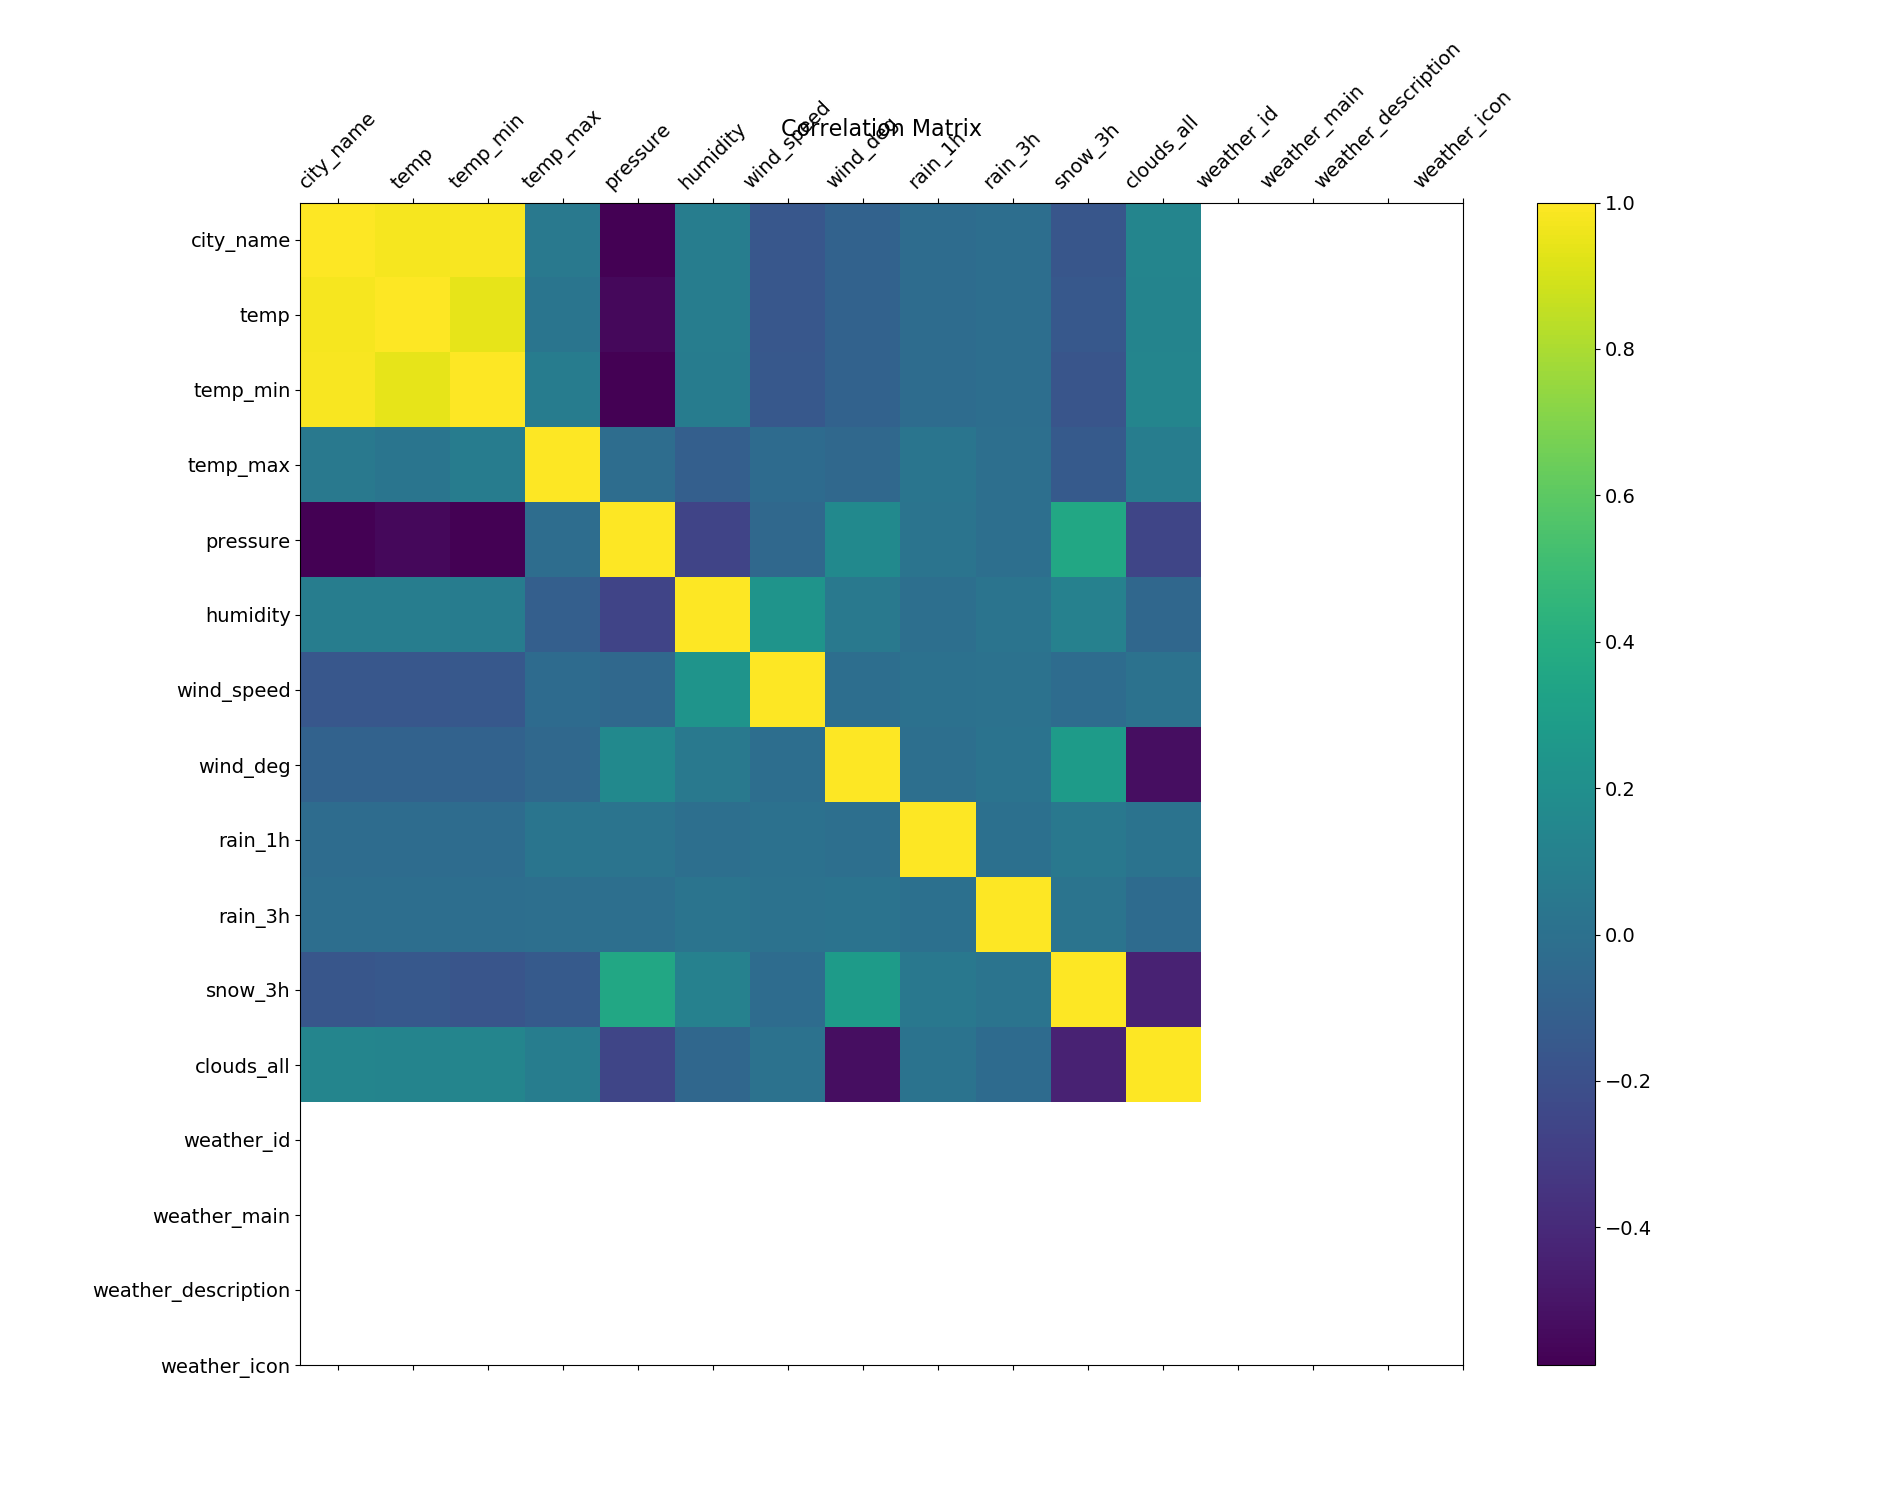
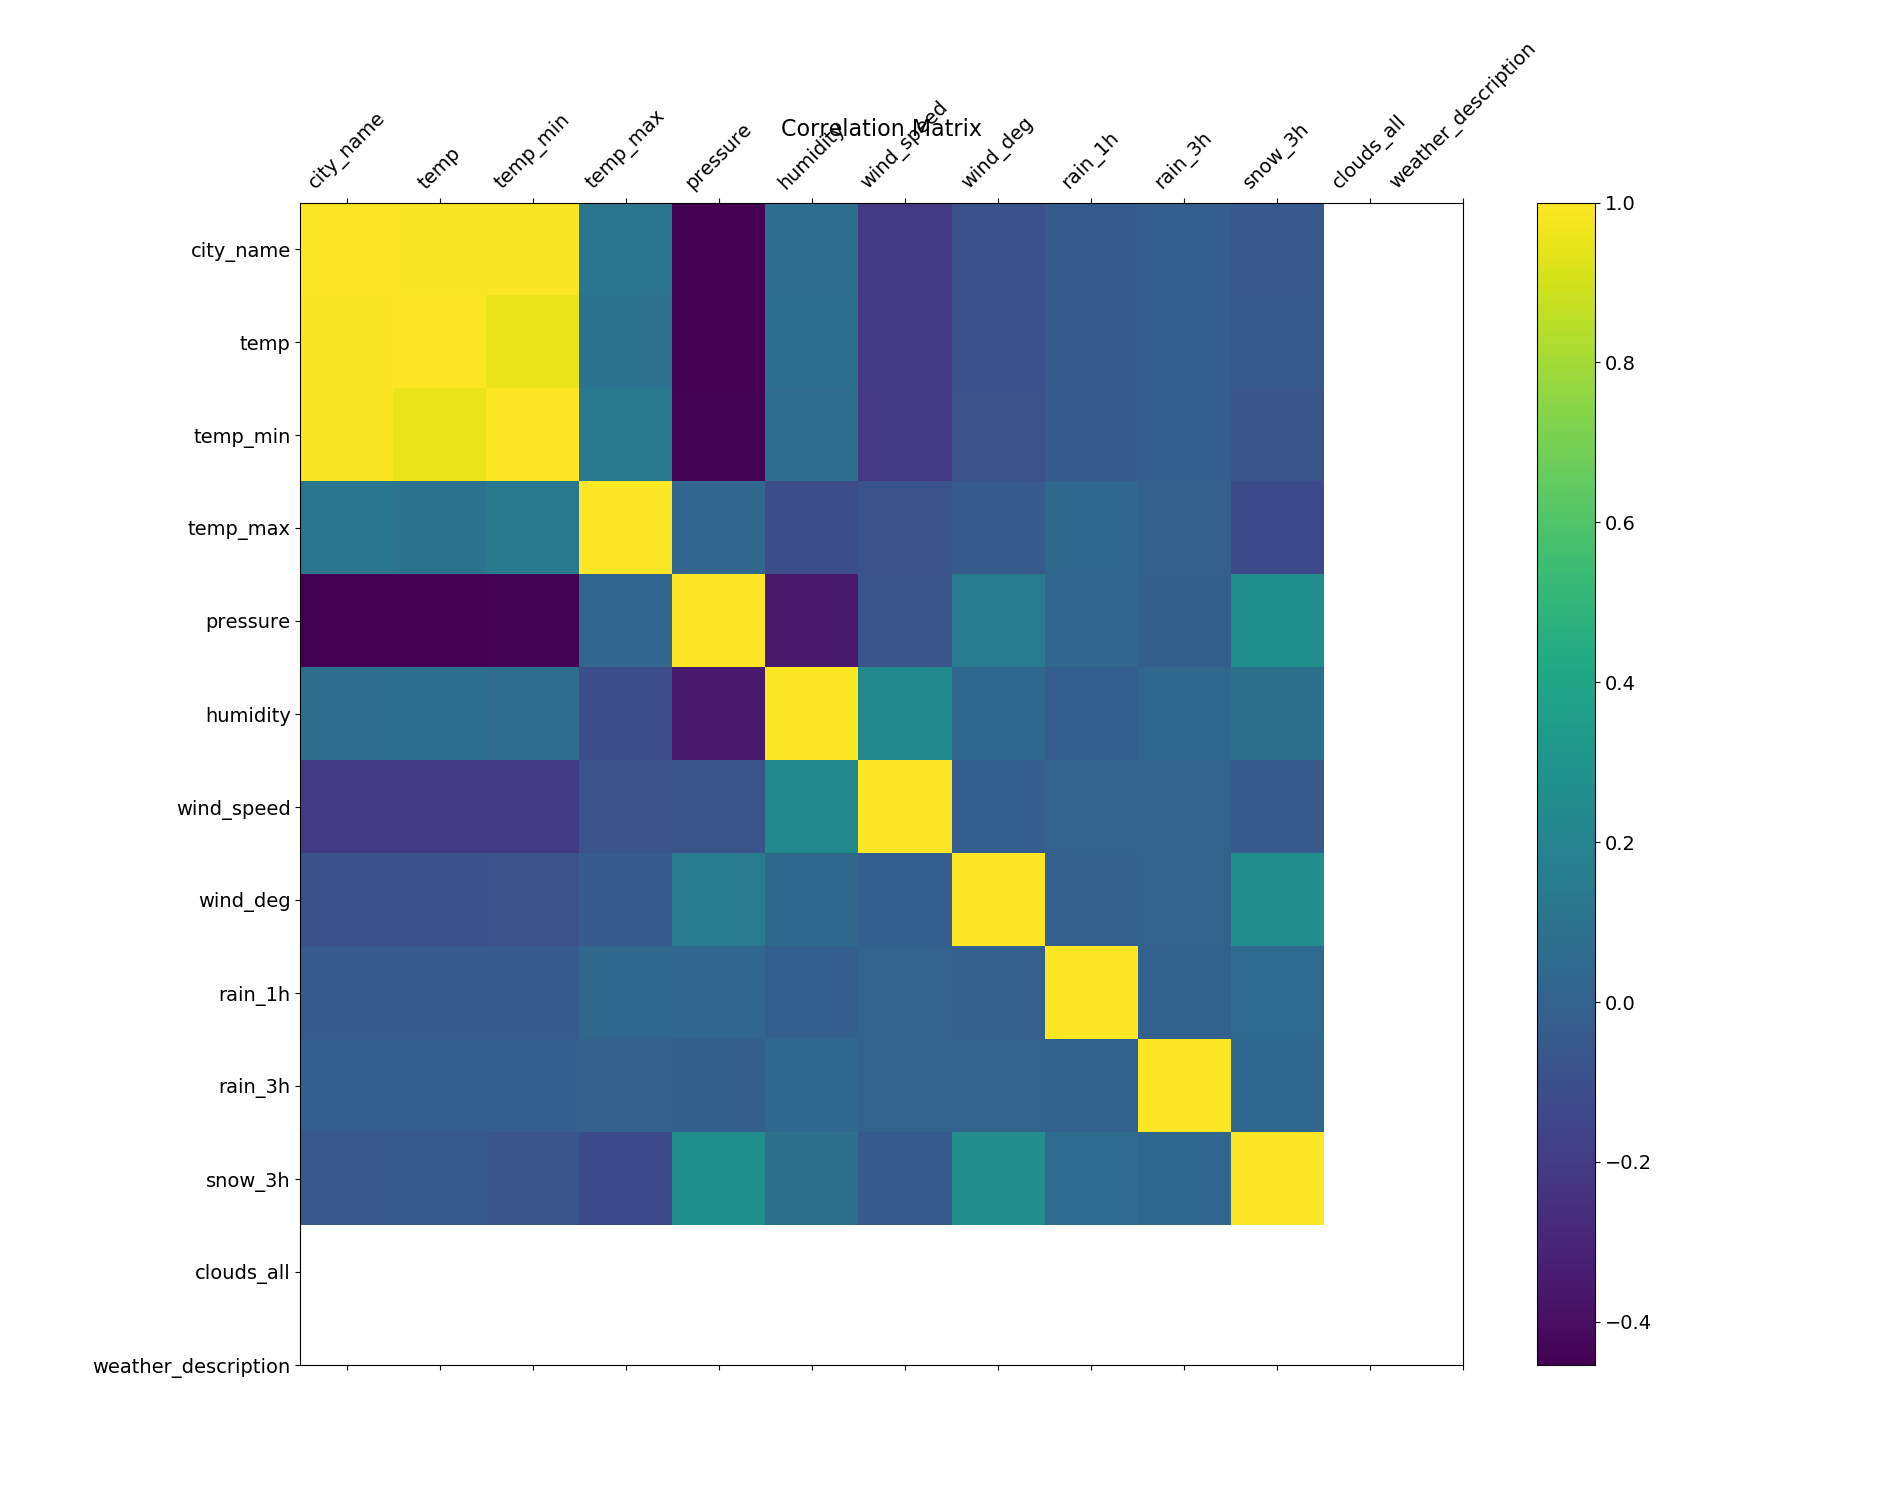
nearly ready for PCA

diff --git a/src/main_script.py b/src/main_script.py
@@ -39,12 +39,19 @@ if __name__ == '__main__':
     weather.reset_index()
 
 
+
+
+
     # Drop columns
     weather_drop_cols = ['weather_icon', 'weather_main', 'weather_id']
-    energy_drop_cols = []
+    energy_drop_cols = ['generation fossil coal-derived gas','generation fossil oil shale', 
+                        'generation fossil peat', 'generation geothermal',
+                        'generation marine', 'generation hydro pumped storage aggregated']
 
     for i in weather_drop_cols:
-        weather.df.drop(i)
+        weather.df.drop(i, axis=1, inplace=True)
+    for i in energy_drop_cols:
+        energy.df.drop(i, axis=1, inplace=True)
 
     # Demonstrate over-featurization of weather.df
     # for i in weather.df.weather_description.unique():
@@ -53,14 +60,33 @@ if __name__ == '__main__':
 
 
 
-    plot_corr_matrix(energy.df)
-    plt.savefig('images/energy_corr.png')
-    # plt.show()
-    plt.close()
-    plot_corr_matrix(weather.df)
-    plt.savefig('images/weather_corr.png')
-    # plt.show()
-    plt.close()
+    # plot_corr_matrix(energy.df)
+    # plt.savefig('images/energy_corr.png')
+    # # plt.show()
+    # plt.close()
+    # plot_corr_matrix(weather.df)
+    # plt.savefig('images/weather_corr.png')
+    # # plt.show()
+    # plt.close()
+
+
+    city_df_list = weather.featurize_cities(['Valencia', 'Madrid', "Bilbao", 'Barcelona', 'Sevilla'])
+
+    valencia = Pipeline.from_df(city_df_list[0])
+    madrid = Pipeline.from_df(city_df_list[1])
+    bilbao = Pipeline.from_df(city_df_list[2])
+    barcelona = Pipeline.from_df(city_df_list[3])
+    sevilla = Pipeline.from_df(city_df_list[4])
+
+    valencia.merge_dfs(madrid)
+
+
+   
+
+
+
+
+
     
     # Transformations
     print('\nPerforming transformations')
@@ -81,14 +107,14 @@ if __name__ == '__main__':
     # test.set_index(['dt_iso'])
     # weather.df.set_index('city_name', append=True)
 
-for feat in ["Madrid", "Valencia"]:
-    for col in weather.df.columns:
-        weather.df[f"{feat}_{col}"] = weather.df[col][weather.df['city_name'] == "Madrid"]
+# for feat in ["Madrid", "Valencia"]:
+#     for col in weather.df.columns:
+#         weather.df[f"{feat}_{col}"] = weather.df[col][weather.df['city_name'] == "Madrid"]
 
-cols = test.columns
-for feat in ["Madrid", "Valencia"]:
-    for col in cols[1:]:
-        test[f"{feat}_{col}"] = test[col][test['city_name'] == feat]
+# cols = test.columns
+# for feat in ["Madrid", "Valencia"]:
+#     for col in cols[1:]:
+#         test[f"{feat}_{col}"] = test[col][test['city_name'] == feat]
 
 
 

diff --git a/src/pipeline.py b/src/pipeline.py
@@ -11,7 +11,7 @@ class Pipeline(object):
     def __init__(self, path):
         # using chunks while on local machine
         chunks = pd.read_csv(path,index_col=0, parse_dates=[0], skip_blank_lines=True, iterator=True)
-        self.df = chunks.get_chunk(60000)
+        self.df = chunks.get_chunk(40000)
         # X and y values to be assigned when create_holdout() is run
         self.X = None
         self.y = None
@@ -70,6 +70,17 @@ class Pipeline(object):
         for feat in new_features:
             for col in self.df.columns:
                 self.df[f"{feat}_{col}"] = self.df[col][self.df[origin_col] == feat]
+
+    def featurize_cities(self, names):
+        new_dfs = []
+        for i in names:
+            city = self.df[self.df['city_name'] == i]
+            new_cols = [f"{i}_{j}" for j in city.columns]
+            mapper = {k:v for (k, v) in zip(city.columns, new_cols)}
+            new_df = city.rename(mapper, axis=1)
+            new_dfs.append(new_df)
+        
+        return new_dfs
 
 
     def clean_categoricals(self, cols):

diff --git a/README.md b/README.md
@@ -32,26 +32,10 @@ I had a suspicion that weather_description and weather_id were redundant as they
 | mist                         | 701        | mist           |
 | fog                          | 741        | fog            |
 
-weather_description and weather_id match nearly 1:1, and weather_main contains faily intuitive groupings of weather types.
+weather_description and weather_id match nearly 1:1, and weather_main contains faily intuitive groupings of weather types.  I opted to use weather_description and discard the other two.
 
 
 Madrid, Barcelona, Valencia, Sevilla, Bilbao
 
 
-weather_description
-array(['sky is clear', 'few clouds', 'scattered clouds', 'broken clouds',
-       'overcast clouds', 'light rain', 'moderate rain',
-       'heavy intensity rain', 'mist', 'heavy intensity shower rain',
-       'shower rain', 'very heavy rain', 'thunderstorm with heavy rain',
-       'thunderstorm with light rain', 'thunderstorm with rain',
-       'proximity thunderstorm', 'thunderstorm',
-       'light intensity shower rain', 'light intensity drizzle', 'fog'],
-      dtype=object)
-
-weather_main
-array(['clear', 'clouds', 'rain', 'mist', 'thunderstorm', 'drizzle',
-       'fog'], dtype=object)
-
-weather_id
-array([800, 801, 802, 803, 804, 500, 501, 502, 701, 522, 521, 503, 202,
-       200, 201, 211, 520, 300, 741])
+The energy dataset was incomplete in a few areas, namely that the 'generation fossil coal-derived gas', 'generation fossil oil shale', 'generation fossil peat', 'generation geothermal', and 'generation marine' contained only zeros, and 'generation hydro pumped storage aggregated' contained all null values. 
